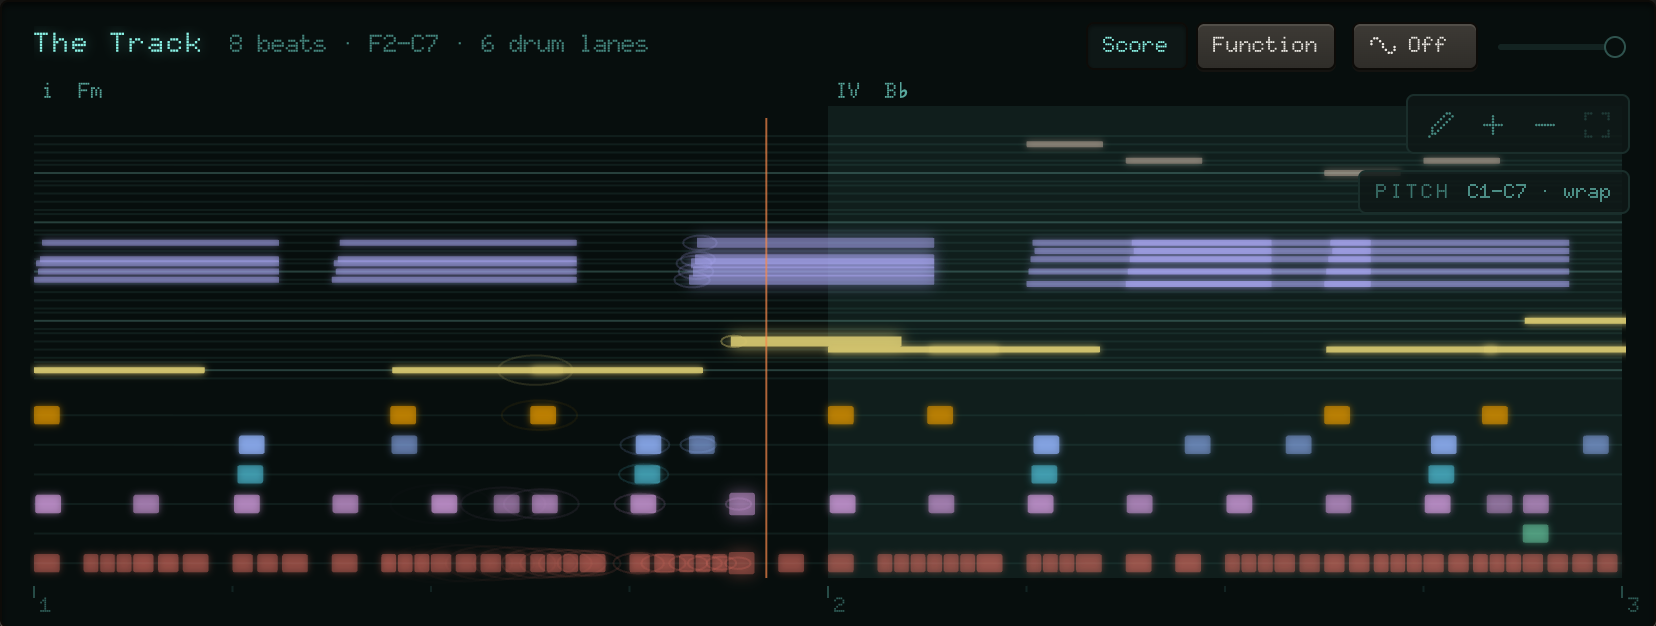
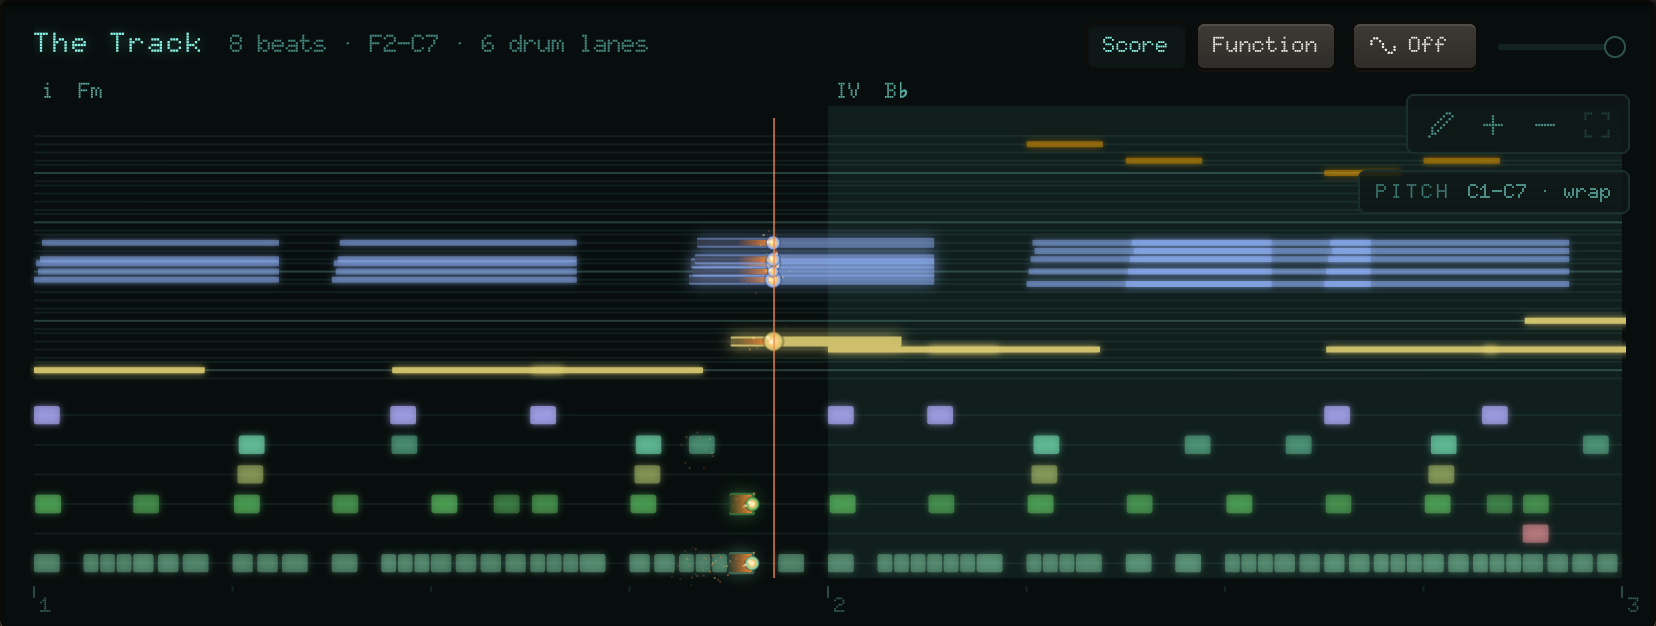
feat(visualizer): fuse effect

diff --git a/src/components/Visualizer.tsx b/src/components/Visualizer.tsx
@@ -6,6 +6,7 @@ import { useSelectedTrack, useStore } from '../state/store';
 import { Icon, Seg, getRender } from './ui';
 import { RangeControl } from './RangeControl';
 import { Pixelator } from './pixelate';
+import { POP_SECONDS, burnCord, pop, sparkHead } from './fuse';
 import { BACKDROP_STYLES, BackdropMemory, drawBackdrop, type BackdropFrame, type BackdropStyle } from './backdrop';
 
 type Mode = 'score' | 'function';
@@ -546,21 +547,23 @@ export function Visualizer() {
             });
             g.stroke();
           }
-          // ripples from freshly struck stones
+          // the fuse: a note long enough to see it burns from its start to its end; a short one catches with a burst
           if (playBeat !== null) {
             let age = (playBeat - note.beat) * secPerBeat;
             if (age < 0) age += total * secPerBeat;
-            if (age < 1.2) {
-              const t = age / 1.2;
-              g.globalAlpha = (1 - t) * 0.45 * (isSel ? 1 : 0.5);
-              g.strokeStyle = track.color;
-              g.lineWidth = 1;
-              g.beginPath();
-              g.ellipse(x + h / 2, y + h / 2, 4 + t * 22, 2 + t * 8, 0, 0, Math.PI * 2);
-              g.stroke();
-            }
+            const seed = Math.round(note.beat * 97 + note.midi * 13 + track.color.length);
+            const runs = w > 12 && note.duration * secPerBeat > 0.15;
+            if (sounding && runs) {
+              const head = x + Math.min(1, Math.max(0, (playBeat - note.beat) / note.duration)) * w;
+              g.globalAlpha = 1;
+              burnCord(g, x, y, h, head, h * P.round);
+              fuses.push(() => sparkHead(g, head, y + h / 2, now, seed, track.color, isSel ? 1 : 0.75));
+            } else if (age < POP_SECONDS) fuses.push(() => pop(g, x + Math.min(w, h) / 2, y + h / 2, age, seed, track.color, isSel ? 1 : 0.75));
           }
         };
+        /** sparks are drawn over every note, after them all */
+        const fuses: (() => void)[] = [];
+        const now = performance.now() / 1000;
 
         for (const { track, notes, glide } of melodic) {
           const isSel = track.id === selected?.id;
@@ -578,7 +581,12 @@ export function Visualizer() {
                 continue;
               }
               run.push([bx(b), my(m) + rowH / 2]);
-              if (playBeat !== null && b <= playBeat && playBeat - b < 0.05) sparks.push({ key: `${track.id}:${Math.floor(b * 4)}`, x: bx(b), y: my(m) + rowH / 2, color: track.color });
+              if (playBeat !== null && b <= playBeat && playBeat - b < 0.05) {
+                sparks.push({ key: `${track.id}:${Math.floor(b * 4)}`, x: bx(b), y: my(m) + rowH / 2, color: track.color });
+                // a glide burns along its line: the spark rides it at the playhead
+                const px = bx(b), py = my(m) + rowH / 2, seed = track.id.length * 17 + Math.floor(b);
+                fuses.push(() => sparkHead(g, px, py, now, seed, track.color, isSel ? 0.9 : 0.65));
+              }
             }
             flush();
             continue;
@@ -615,6 +623,7 @@ export function Visualizer() {
             stone(track, note, x, y0 + (laneH - h) / 2, w, h, isSel);
           }
         });
+        for (const f of fuses) f();
 
         g.restore();
         g.globalAlpha = 1;
@@ -803,15 +812,20 @@ export function Visualizer() {
           g.moveTo(x, padT - 6);
           g.lineTo(x, vBase);
           g.stroke();
-          g.globalAlpha = 0.18;
-          g.fillStyle = P.accent;
-          g.beginPath();
-          g.arc(x, y, 12, 0, Math.PI * 2);
-          g.fill();
           g.globalAlpha = 1;
-          g.beginPath();
-          g.arc(x, y, 4.5, 0, Math.PI * 2);
-          g.fill();
+          // the spark burns while a note of this channel sounds (a glide: while its curve does)
+          const own = [...score.melodic, ...score.drums].find((it) => it.track.id === selected.id);
+          const sounding = glide ? fnFull.vel[i] >= 0.01 : !!own?.notes.some((nt) => beat >= nt.beat && beat < nt.beat + Math.max(nt.duration, 0.05));
+          if (sounding) sparkHead(g, x, y, performance.now() / 1000, 7, selected.color, 1.15);
+          else {
+            // silent here: the fuse waits, unlit
+            g.fillStyle = P.accent;
+            g.globalAlpha = 0.5;
+            g.beginPath();
+            g.arc(x, y, 3, 0, Math.PI * 2);
+            g.fill();
+            g.globalAlpha = 1;
+          }
         }
       }
     };

diff --git a/src/components/fuse.ts b/src/components/fuse.ts
@@ -1,0 +1,102 @@
+/**
+ * A note that sounds burns like a fuse: a spark runs along it from its start to its end, spraying,
+ * with an ember glowing just behind it and the cord charred where it has passed; a note too short for
+ * a run (a drum hit) catches with a small burst. Pure drawing, driven by the time, so it never stores anything.
+ */
+
+/** a deterministic 0…1 for a whole number: the same spark always flies the same way */
+const rnd = (n: number) => {
+  const s = Math.sin(n * 12.9898 + 78.233) * 43758.5453;
+  return s - Math.floor(s);
+};
+
+const HOT = '#fff4cf';
+const FLAME = ['#ffd27a', '#ffa64a', '#ff7a30'];
+
+/**
+ * The cord behind the spark: charred from the start of the note to the head, the last stretch an
+ * ember fading from orange into the char. Draw it over the note.
+ */
+export function burnCord(g: CanvasRenderingContext2D, x0: number, y: number, h: number, head: number, round: number) {
+  if (head <= x0 + 0.5) return;
+  g.save();
+  g.beginPath();
+  g.roundRect(x0, y, head - x0, h, Math.min(round, h / 2, (head - x0) / 2));
+  g.clip();
+  g.globalAlpha = 0.5;
+  g.fillStyle = '#120a06';
+  g.fillRect(x0, y, head - x0, h);
+  const ember = Math.min(18, head - x0);
+  const grad = g.createLinearGradient(head - ember, 0, head, 0);
+  grad.addColorStop(0, 'rgba(255,120,40,0)');
+  grad.addColorStop(1, 'rgba(255,150,60,0.95)');
+  g.globalAlpha = 1;
+  g.fillStyle = grad;
+  g.fillRect(head - ember, y, ember, h);
+  g.restore();
+}
+
+/** the spark at the head of the fuse: a hot, flickering core and a spray of sparks thrown up and back */
+export function sparkHead(g: CanvasRenderingContext2D, x: number, y: number, now: number, seed: number, colour: string, size = 1) {
+  g.save();
+  const flick = 0.8 + 0.2 * Math.sin(now * 47 + seed * 3.1) * Math.sin(now * 23 + seed);
+  const r = 7 * size * flick;
+  const core = g.createRadialGradient(x, y, 0, x, y, r);
+  core.addColorStop(0, HOT);
+  core.addColorStop(0.35, FLAME[0]);
+  core.addColorStop(0.7, colour);
+  core.addColorStop(1, 'rgba(0,0,0,0)');
+  g.fillStyle = core;
+  g.globalAlpha = 0.95;
+  g.beginPath();
+  g.arc(x, y, r, 0, Math.PI * 2);
+  g.fill();
+  // the spray: each spark lives a moment, flies out on its own line and falls a little
+  const N = 9;
+  for (let i = 0; i < N; i++) {
+    const clock = now * 2.6 + i / N + seed * 0.37;
+    const life = clock - Math.floor(clock);
+    const id = Math.floor(clock) * 31 + i * 7 + seed;
+    // mostly up and back, the way a fuse throws them
+    const a = -Math.PI / 2 - 0.4 + (rnd(id) - 0.5) * 2.6;
+    const speed = (10 + 16 * rnd(id + 1)) * size;
+    const px = x + Math.cos(a) * speed * life;
+    const py = y + Math.sin(a) * speed * life + 16 * size * life * life;
+    g.globalAlpha = (1 - life) * 0.95;
+    g.fillStyle = life < 0.25 ? HOT : FLAME[Math.floor(rnd(id + 2) * FLAME.length)];
+    const s = Math.max(0.8, 2 * size * (1 - life));
+    g.fillRect(px - s / 2, py - s / 2, s, s);
+  }
+  g.restore();
+}
+
+/** a short note catching: a flash and a ring of sparks over its first moment (age in seconds) */
+export const POP_SECONDS = 0.4;
+export function pop(g: CanvasRenderingContext2D, x: number, y: number, age: number, seed: number, colour: string, size = 1) {
+  if (age < 0 || age > POP_SECONDS) return;
+  const t = age / POP_SECONDS;
+  g.save();
+  if (t < 0.3) {
+    const r = (5 + 6 * t) * size;
+    const flash = g.createRadialGradient(x, y, 0, x, y, r);
+    flash.addColorStop(0, HOT);
+    flash.addColorStop(0.5, colour);
+    flash.addColorStop(1, 'rgba(0,0,0,0)');
+    g.globalAlpha = 1 - t / 0.3;
+    g.fillStyle = flash;
+    g.beginPath();
+    g.arc(x, y, r, 0, Math.PI * 2);
+    g.fill();
+  }
+  const N = 10;
+  for (let i = 0; i < N; i++) {
+    const a = (i / N) * Math.PI * 2 + (rnd(seed + i) - 0.5) * 0.6;
+    const d = (6 + 10 * rnd(seed + i + 40)) * size * (1 - (1 - t) * (1 - t));
+    const px = x + Math.cos(a) * d, py = y + Math.sin(a) * d + 6 * size * t * t;
+    g.globalAlpha = (1 - t) * 0.95;
+    g.fillStyle = t < 0.2 ? HOT : FLAME[i % FLAME.length];
+    const s = Math.max(0.8, 1.8 * size * (1 - t));
+    g.fillRect(px - s / 2, py - s / 2, s, s);
+  }
+  g.restore();
+}

diff --git a/USAGE.md b/USAGE.md
@@ -6,7 +6,7 @@
 - **Node editor** (bottom): double-click the canvas or press *Add node*. Drag a wire into empty space to add a node that's already connected. Every node shows a sparkline of its output over the pattern.
 - **Note Out** decides what you hear each step: `pitch` (mapped onto the key & scale), `velocity` (0 = rest), `length` (in steps).
 - **Formula** nodes accept expressions like `3*sin(tau*x) + (k % 3)` using inputs `a b c` and the clock `n x t k`. See the *Guide* tab for every function.
-- **Visualizer** (top): *Score* (all channels, drums in their own lanes; **✎** beside the zoom buttons draws the notes in as the track plays — each note grows from its start to the playhead like a pen stroke, glides trace along behind it, and the score wipes clean as the loop comes round (the whole score shows when stopped; the choice is remembered)), *Function* (y = f(x) for the selected channel across the whole loop — shorter channels repeat with their loop count `k`, so evolving channels show every pass; **drag across it to hear the curve**), **〰 Backdrop** (the key beside *Score* and *Function*): the live sound behind either view, as a dot matrix like the display, kept faint under the notes — *Waves* (smooth filled waves flowing across the view in time with the tempo — the bass one cycle every four bars, the highs one a bar — each as tall as its stretch of the spectrum is loud), *Phase* (a Lissajous figure), *EQ* (an LED spectrum analyser with falling peaks), *Sono* (a sonogram: the spectrum painted under the notes as the playhead passes) *Life* (Conway's Game of Life on the dots, seeded by every note as it starts), *Julia* (a Julia-set fractal z² + c filling the view; c runs along the edge of the Mandelbrot set's main body, so the shape is always connected — a full turn every 16 bars in time with the tempo, each chord sending it to its own place on the edge, the bass pushing it out so kicks make it bloom) or *Snake* (a snake per channel crawling the dots eight a beat; each note turns it — higher than the last left, lower right, drums zig-zag — leaving a fading trail); click for the next, ⇧-click for the one before, or Off; the slider beside it sets how strongly it shows, up to the most the notes allow (double-click for full); both remembered. **Zoom** with ⌘/Ctrl + scroll or a trackpad pinch (around the pointer), scroll to pan, the − / + / fit buttons, or double-click to see the whole loop again; while playing zoomed in, the view follows the playhead.
+- **Visualizer** (top): *Score* (all channels, drums in their own lanes; a sounding note burns like a fuse — a spark runs along it from start to end, an ember glowing behind it and the cord charred where it has passed — a short note or drum hit catches with a burst of sparks, a glide carries its spark along the line, and in *Function* the playhead on the curve is the spark; **✎** beside the zoom buttons draws the notes in as the track plays — each note grows from its start to the playhead like a pen stroke, glides trace along behind it, and the score wipes clean as the loop comes round (the whole score shows when stopped; the choice is remembered)), *Function* (y = f(x) for the selected channel across the whole loop — shorter channels repeat with their loop count `k`, so evolving channels show every pass; **drag across it to hear the curve**), **〰 Backdrop** (the key beside *Score* and *Function*): the live sound behind either view, as a dot matrix like the display, kept faint under the notes — *Waves* (smooth filled waves flowing across the view in time with the tempo — the bass one cycle every four bars, the highs one a bar — each as tall as its stretch of the spectrum is loud), *Phase* (a Lissajous figure), *EQ* (an LED spectrum analyser with falling peaks), *Sono* (a sonogram: the spectrum painted under the notes as the playhead passes) *Life* (Conway's Game of Life on the dots, seeded by every note as it starts), *Julia* (a Julia-set fractal z² + c filling the view; c runs along the edge of the Mandelbrot set's main body, so the shape is always connected — a full turn every 16 bars in time with the tempo, each chord sending it to its own place on the edge, the bass pushing it out so kicks make it bloom) or *Snake* (a snake per channel crawling the dots eight a beat; each note turns it — higher than the last left, lower right, drums zig-zag — leaving a fading trail); click for the next, ⇧-click for the one before, or Off; the slider beside it sets how strongly it shows, up to the most the notes allow (double-click for full); both remembered. **Zoom** with ⌘/Ctrl + scroll or a trackpad pinch (around the pointer), scroll to pan, the − / + / fit buttons, or double-click to see the whole loop again; while playing zoomed in, the view follows the playhead.
 - **Top bar — the whole song**: **Tempo** (with ▲/▼ arrows), **Length**, **Key**, **Scale** (44, grouped: none — every semitone; major/minor/pentatonic/blues/bebop; the modes; Japanese; from around the world — double harmonic, Hungarian, Persian, pélog…; symmetric — whole tone, octatonic, augmented), **Harmony** (type a formula, or pick a progression by name from the box beside it) and **Reverb**. **Length** is 4, 8, 16, 32 or 64 beats — *every* channel is exactly that long; the step length you pick fits as many steps as it takes (an irrational step is nudged to land on the beat), up to 1024 steps — or **Free**, where each channel loops on its own (steps × step length, for polyrhythms) and the song is its longest channel. The Score, the Function view and MIDI export use it; the chord progression repeats or carries on inside it. Kits, presets and imports never change it: their channels fit into the Length you set. **Each pass** (in the same menu): *Evolves* (default) — time runs on, so `k`, `bar` and the harmony carry on and every pass can differ; *Repeats exactly* (⟲) — the clock starts again each pass, note for note, in playback and MIDI export alike. Either way the Score and Function views draw the pass you are hearing (the legend says which), and their pitch scale holds steady while playing, only widening if a later pass reaches further.
 - **Words**: a **track** is the whole piece (what you save, open and export); its **channels** are the stems — each with its own nodes, voice and sliders.
 - **Channel tab → Grid** (right panel): the selected channel's steps × step length and **Octave** (type it, use the ▲/▼ arrows, or ↑/↓ keys; −4 … 9). **All channels**: *Glide all / Unglide all* and *Snap all / Free pitch all* set every melodic channel at once (drums have neither); one ⌘Z undoes it.

diff --git a/WALKTHROUGH.md b/WALKTHROUGH.md
@@ -86,7 +86,7 @@ Each channel is a graph. Clocks (`n`, `x`, `t`, `k`, the chord `h`) flow through
 
 ### Score
 
-Every channel at once, with drums in their own lanes. The chord of each bar is written along the top. Hover a note to see its pitch, velocity and the raw value of `f`.
+Every channel at once, with drums in their own lanes. A note burns like a fuse as it plays: a spark runs along it, charring the cord behind; drum hits catch with a burst of sparks. The chord of each bar is written along the top. Hover a note to see its pitch, velocity and the raw value of `f`.
 
 ![The Score](docs/walkthrough/score.png)
 
